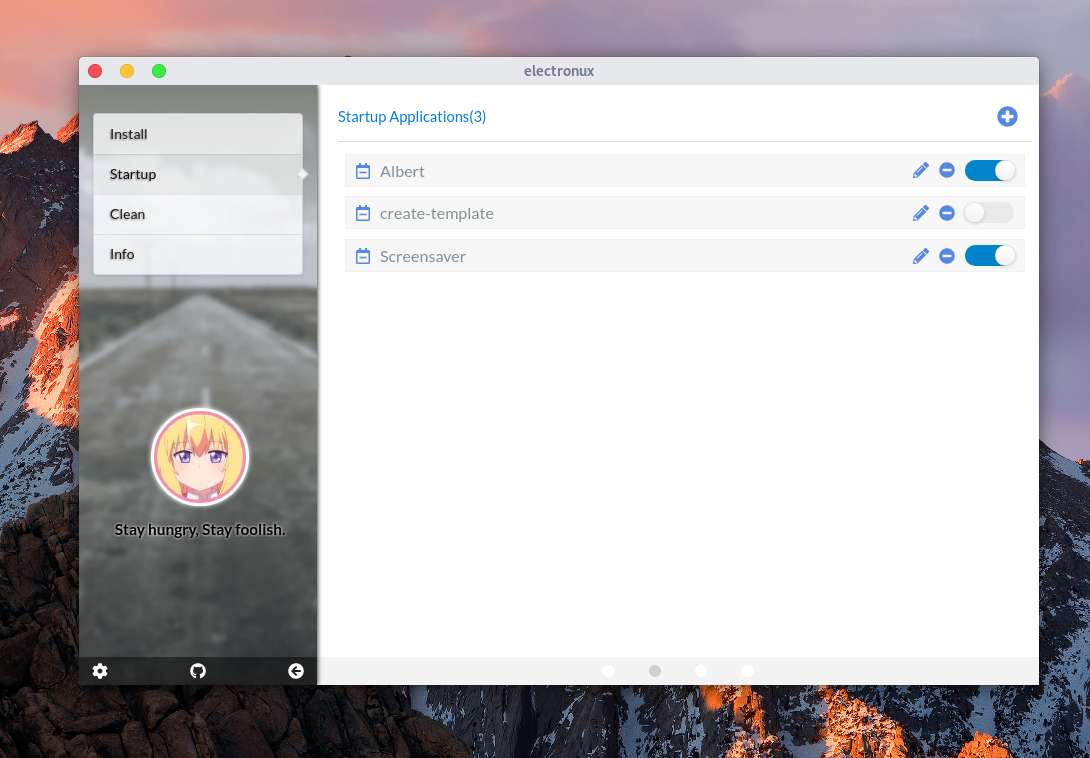
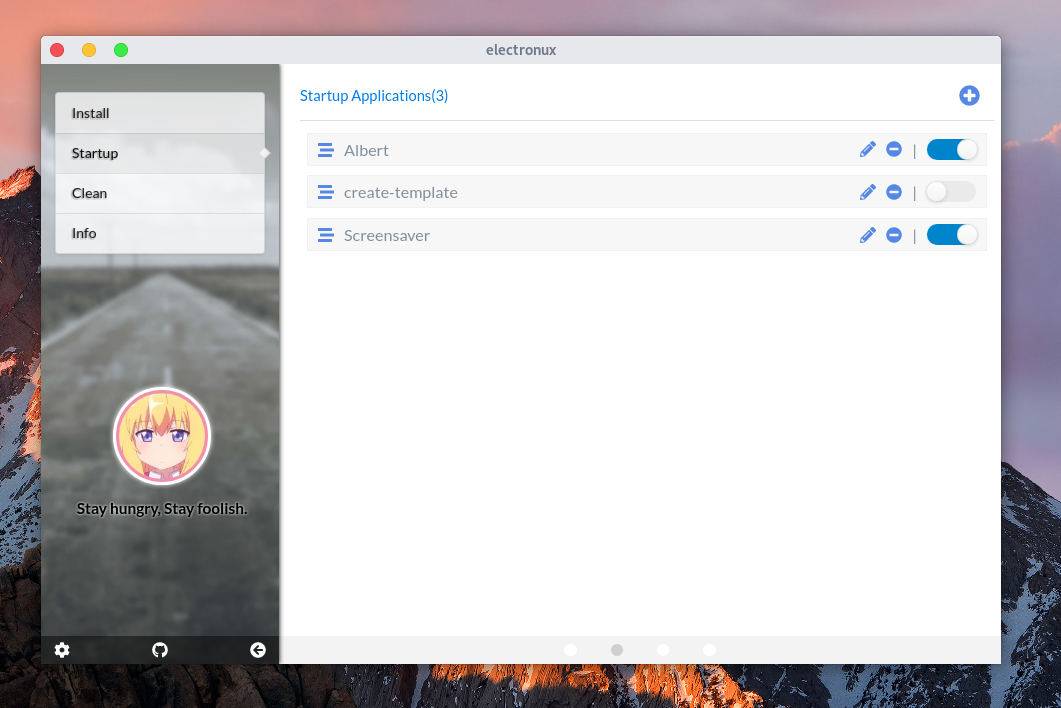
update: 规范化组件propTypes

Changed region(s): [[0.0, 0.0311, 1.0, 1.0]]

diff --git a/app/views/install/InstallItem.js b/app/views/install/InstallItem.js
@@ -1,5 +1,6 @@
 import React from 'react';
 import { Checkbox, Dimmer, Loader } from 'semantic-ui-react';
+import PropTypes from 'prop-types';
 
 function InstallItem({ ...props }) {
   const {
@@ -14,7 +15,7 @@ function InstallItem({ ...props }) {
 
       <div className="install-item-image" onClick={() => {showTerminalInfo(item.label)}}>
         <Dimmer active={loading} inverted>
-          <Loader size="tiny">{ loadingLable || 'Loading'}</Loader>
+          <Loader size="tiny">{ loadingLable }</Loader>
         </Dimmer>
         <img alt="error" src={item.url} />
       </div>
@@ -30,7 +31,7 @@ function InstallItem({ ...props }) {
       <div
         className="install-item-label"
         title={item.label}
-        onClick={() => {showTerminalInfo(item.label)}}
+        onClick={() => { showTerminalInfo(item.label)}}
       >
         {item.label}
       </div>
@@ -38,5 +39,18 @@ function InstallItem({ ...props }) {
     </div>
   );
 }
+
+InstallItem.defaultProps = {
+  loadingLable: 'Loading',
+};
+
+InstallItem.propTypes = {
+  item: PropTypes.object.isRequired,
+  onToggle: PropTypes.func.isRequired,
+  loading: PropTypes.bool.isRequired,
+  loadingLable: PropTypes.string,
+  showTerminalInfo: PropTypes.func.isRequired,
+};
+
 
 export default InstallItem;

diff --git a/app/views/startup/StartupSetting.js b/app/views/startup/StartupSetting.js
@@ -1,8 +1,19 @@
 import React, { Component } from 'react';
 import { Button, Modal, Input } from 'semantic-ui-react';
+import PropTypes from 'prop-types';
+
 const { ipcRenderer } = require('electron');
 
 class StartupSetting extends Component {
+  static propTypes = {
+    setDetails: PropTypes.func.isRequired,
+    addDetail: PropTypes.func.isRequired,
+    detail: PropTypes.object.isRequired,
+    show: PropTypes.bool.isRequired,
+    toggleModal: PropTypes.func.isRequired,
+    isNew: PropTypes.bool.isRequired,
+  }
+
   constructor() {
     super();
     this.Name = '';
@@ -27,7 +38,7 @@ class StartupSetting extends Component {
   }
 
   addDetail = () => {
-    const { addDetail, detail } = this.props;
+    const { addDetail } = this.props;
 
     if (this.Name && this.Exec) {
       addDetail({
@@ -46,7 +57,9 @@ class StartupSetting extends Component {
   }
 
   render() {
-    const { show, detail, toggleModal, isNew } = this.props;
+    const {
+      show, detail, toggleModal, isNew,
+    } = this.props;
     return (
       <div>
         <Modal dimmer="inverted" open={show} size="mini">

diff --git a/app/views/startup/StartupItem.js b/app/views/startup/StartupItem.js
@@ -1,8 +1,7 @@
 import React from 'react';
 import { Checkbox } from 'semantic-ui-react';
 import { FontAwesomeIcon } from '@fortawesome/react-fontawesome';
-import { faCalendarMinus } from '@fortawesome/free-regular-svg-icons';
-import { faPencilAlt, faMinusCircle } from '@fortawesome/free-solid-svg-icons';
+import { faPencilAlt, faMinusCircle, faStream } from '@fortawesome/free-solid-svg-icons';
 
 import boolValue from '../../utils/bool-value';
 
@@ -17,7 +16,7 @@ class StartupItem extends React.Component {
     return (
       <div className="detail-item-wrapper">
         <span>
-          <span><FontAwesomeIcon icon={faCalendarMinus} color="#5d89e9" /></span>
+          <span><FontAwesomeIcon icon={faStream} color="#5d89e9" /></span>
           <span>{detail.Name}</span>
         </span>
         <span>
@@ -33,6 +32,7 @@ class StartupItem extends React.Component {
             color="#5d89e9"
             onClick={() => deleteDetail(detail.file)}
           />
+          <span>|</span>
           <Checkbox
             title="toggle"
             checked={!boolValue(detail.Hidden)}

diff --git a/app/views/install/InstallPage.js b/app/views/install/InstallPage.js
@@ -1,7 +1,10 @@
 import React from 'react';
 // import { Link } from 'react-router-dom';
 import { inject, observer } from 'mobx-react';
-import { Dimmer, Loader, Divider, Checkbox } from 'semantic-ui-react';
+import PropTypes from 'prop-types';
+import {
+  Dimmer, Loader, Divider, Checkbox,
+} from 'semantic-ui-react';
 
 import './install.css';
 
@@ -10,6 +13,12 @@ import TerminalInfo from './TerminalInfo';
 
 @inject('install') @observer
 class InstallPage extends React.Component {
+  /* ------------------- propTypes ------------------- */
+  static propTypes = {
+    install: PropTypes.object.isRequired,
+    location: PropTypes.object.isRequired,
+  }
+
   constructor() {
     super();
     this.state = {
@@ -22,6 +31,8 @@ class InstallPage extends React.Component {
     const { install } = this.props;
     install.refresh();
   }
+
+  /* ------------------- define func ------------------- */
 
   // 获取loading状态信息 //
   getLoadingStatus = (name, queue) => {

diff --git a/app/views/clean/CleanDetail.js b/app/views/clean/CleanDetail.js
@@ -1,5 +1,6 @@
 import React from 'react';
 import { inject, observer } from 'mobx-react';
+import PropTypes from 'prop-types';
 import {
   Dimmer, Loader, Divider, Button,
 } from 'semantic-ui-react';
@@ -10,12 +11,15 @@ import {
   faSmile, faSurprise, faSmileWink, faLaughSquint, faKissWinkHeart,
 } from '@fortawesome/free-solid-svg-icons';
 
-
 import CleanDetailItem from './CleanDetailItem';
-
 
 @inject('clean') @observer
 class CleanDetail extends React.Component {
+  static propTypes = {
+    clean: PropTypes.object.isRequired,
+    history: PropTypes.object.isRequired,
+  }
+
   componentDidMount() {
     const { clean } = this.props;
     clean.lsAllDirs();

diff --git a/app/views/clean/CleanDetailItem.js b/app/views/clean/CleanDetailItem.js
@@ -1,5 +1,6 @@
 import React, { Component } from 'react';
 import { Checkbox } from 'semantic-ui-react';
+import PropTypes from 'prop-types';
 import { inject, observer } from 'mobx-react';
 
 import { FontAwesomeIcon } from '@fortawesome/react-fontawesome';
@@ -7,6 +8,12 @@ import { faChevronRight, faChevronDown, faCheckCircle } from '@fortawesome/free-
 
 @inject('clean') @observer
 class CleanDetailItem extends Component {
+  static propTypes = {
+    contents: PropTypes.arrayOf(PropTypes.object).isRequired,
+    clean: PropTypes.object.isRequired,
+    label: PropTypes.string.isRequired,
+  }
+
   constructor() {
     super();
     this.state = {

diff --git a/app/views/HomePage.js b/app/views/HomePage.js
@@ -1,7 +1,7 @@
 import React, { Component } from 'react';
 import { inject, observer } from 'mobx-react';
 import { Menu } from 'semantic-ui-react';
-// import { PropTypes } from 'prop-types';
+import PropTypes from 'prop-types';
 import {
   Route, BrowserRouter as Router, Switch,
 } from 'react-router-dom';
@@ -24,6 +24,12 @@ import { history } from '../App';
 
 @inject('pub') @observer
 class HomePage extends Component {
+  static propTypes = {
+    pub: PropTypes.object.isRequired,
+    location: PropTypes.object.isRequired,
+    match: PropTypes.object.isRequired,
+  }
+
   constructor(props) {
     super(props);
     this.state = {

diff --git a/app/views/startup/StartupPage.js b/app/views/startup/StartupPage.js
@@ -1,6 +1,6 @@
 import React from 'react';
-import { Link } from 'react-router-dom';
 import { inject, observer } from 'mobx-react';
+import PropTypes from 'prop-types';
 
 import { FontAwesomeIcon } from '@fortawesome/react-fontawesome';
 import { faPlusCircle } from '@fortawesome/free-solid-svg-icons';
@@ -14,6 +14,11 @@ import './startup.css';
 
 @inject('startup') @observer
 class StartupPage extends React.Component {
+  static propTypes = {
+    startup: PropTypes.object.isRequired,
+    location: PropTypes.object.isRequired,
+  }
+
   constructor() {
     super();
     this.state = {

diff --git a/app/views/public/SettingPage.js b/app/views/public/SettingPage.js
@@ -1,5 +1,6 @@
-import React, { Component } from 'react'
-import { Button, Modal, Input } from 'semantic-ui-react'
+import React, { Component } from 'react';
+import { Button, Modal, Input } from 'semantic-ui-react';
+import PropTypes from 'prop-types';
 
 /**
  * [ScrollIndicator 滑动指示器]
@@ -9,6 +10,11 @@ import { Button, Modal, Input } from 'semantic-ui-react'
  */
 
 class SettingPage extends Component {
+  static propTypes = {
+    open: PropTypes.bool.isRequired,
+    closeSettingPage: PropTypes.func.isRequired,
+  }
+
   constructor() {
     super();
     this.state = {

diff --git a/app/views/clean/CleanPage.js b/app/views/clean/CleanPage.js
@@ -1,5 +1,6 @@
 import React from 'react';
 import { inject, observer } from 'mobx-react';
+import PropTypes from 'prop-types';
 import { Dimmer, Loader, Divider, Checkbox } from 'semantic-ui-react';
 
 import { FontAwesomeIcon } from '@fortawesome/react-fontawesome';
@@ -13,6 +14,11 @@ import CleanItem from './CleanItem';
 
 @inject('clean') @observer
 class CleanPage extends React.Component {
+  static propTypes = {
+    clean: PropTypes.object.isRequired,
+    location: PropTypes.object.isRequired,
+  }
+
   constructor() {
     super();
     this.state = {

diff --git a/app/views/install/TerminalInfo.js b/app/views/install/TerminalInfo.js
@@ -1,9 +1,20 @@
 import React from 'react';
+import PropTypes from 'prop-types';
 import {
   Button, Header, Icon, Modal,
 } from 'semantic-ui-react';
 
 class TerminalInfo extends React.Component {
+  static defaultProps = {
+    data: '',
+  }
+
+  static propTypes = {
+    open: PropTypes.bool.isRequired,
+    data: PropTypes.string,
+    hideTerminalInfo: PropTypes.func.isRequired,
+  }
+
   componentDidMount() {
     window.addEventListener('keyup', this.handleEscapeKeydown, true);
   }

diff --git a/app/views/public/ScrollIndicator.js b/app/views/public/ScrollIndicator.js
@@ -1,4 +1,5 @@
 import React from 'react';
+import PropTypes from 'prop-types';
 
 /**
  * [ScrollIndicator 滑动指示器]
@@ -26,5 +27,11 @@ function ScrollIndicator({ total, activeItem, handleItemClick }) {
     </div>
   );
 }
+
+ScrollIndicator.propTypes = {
+  total: PropTypes.arrayOf(PropTypes.string).isRequired,
+  activeItem: PropTypes.string.isRequired,
+  handleItemClick: PropTypes.func.isRequired,
+};
 
 export default ScrollIndicator;
